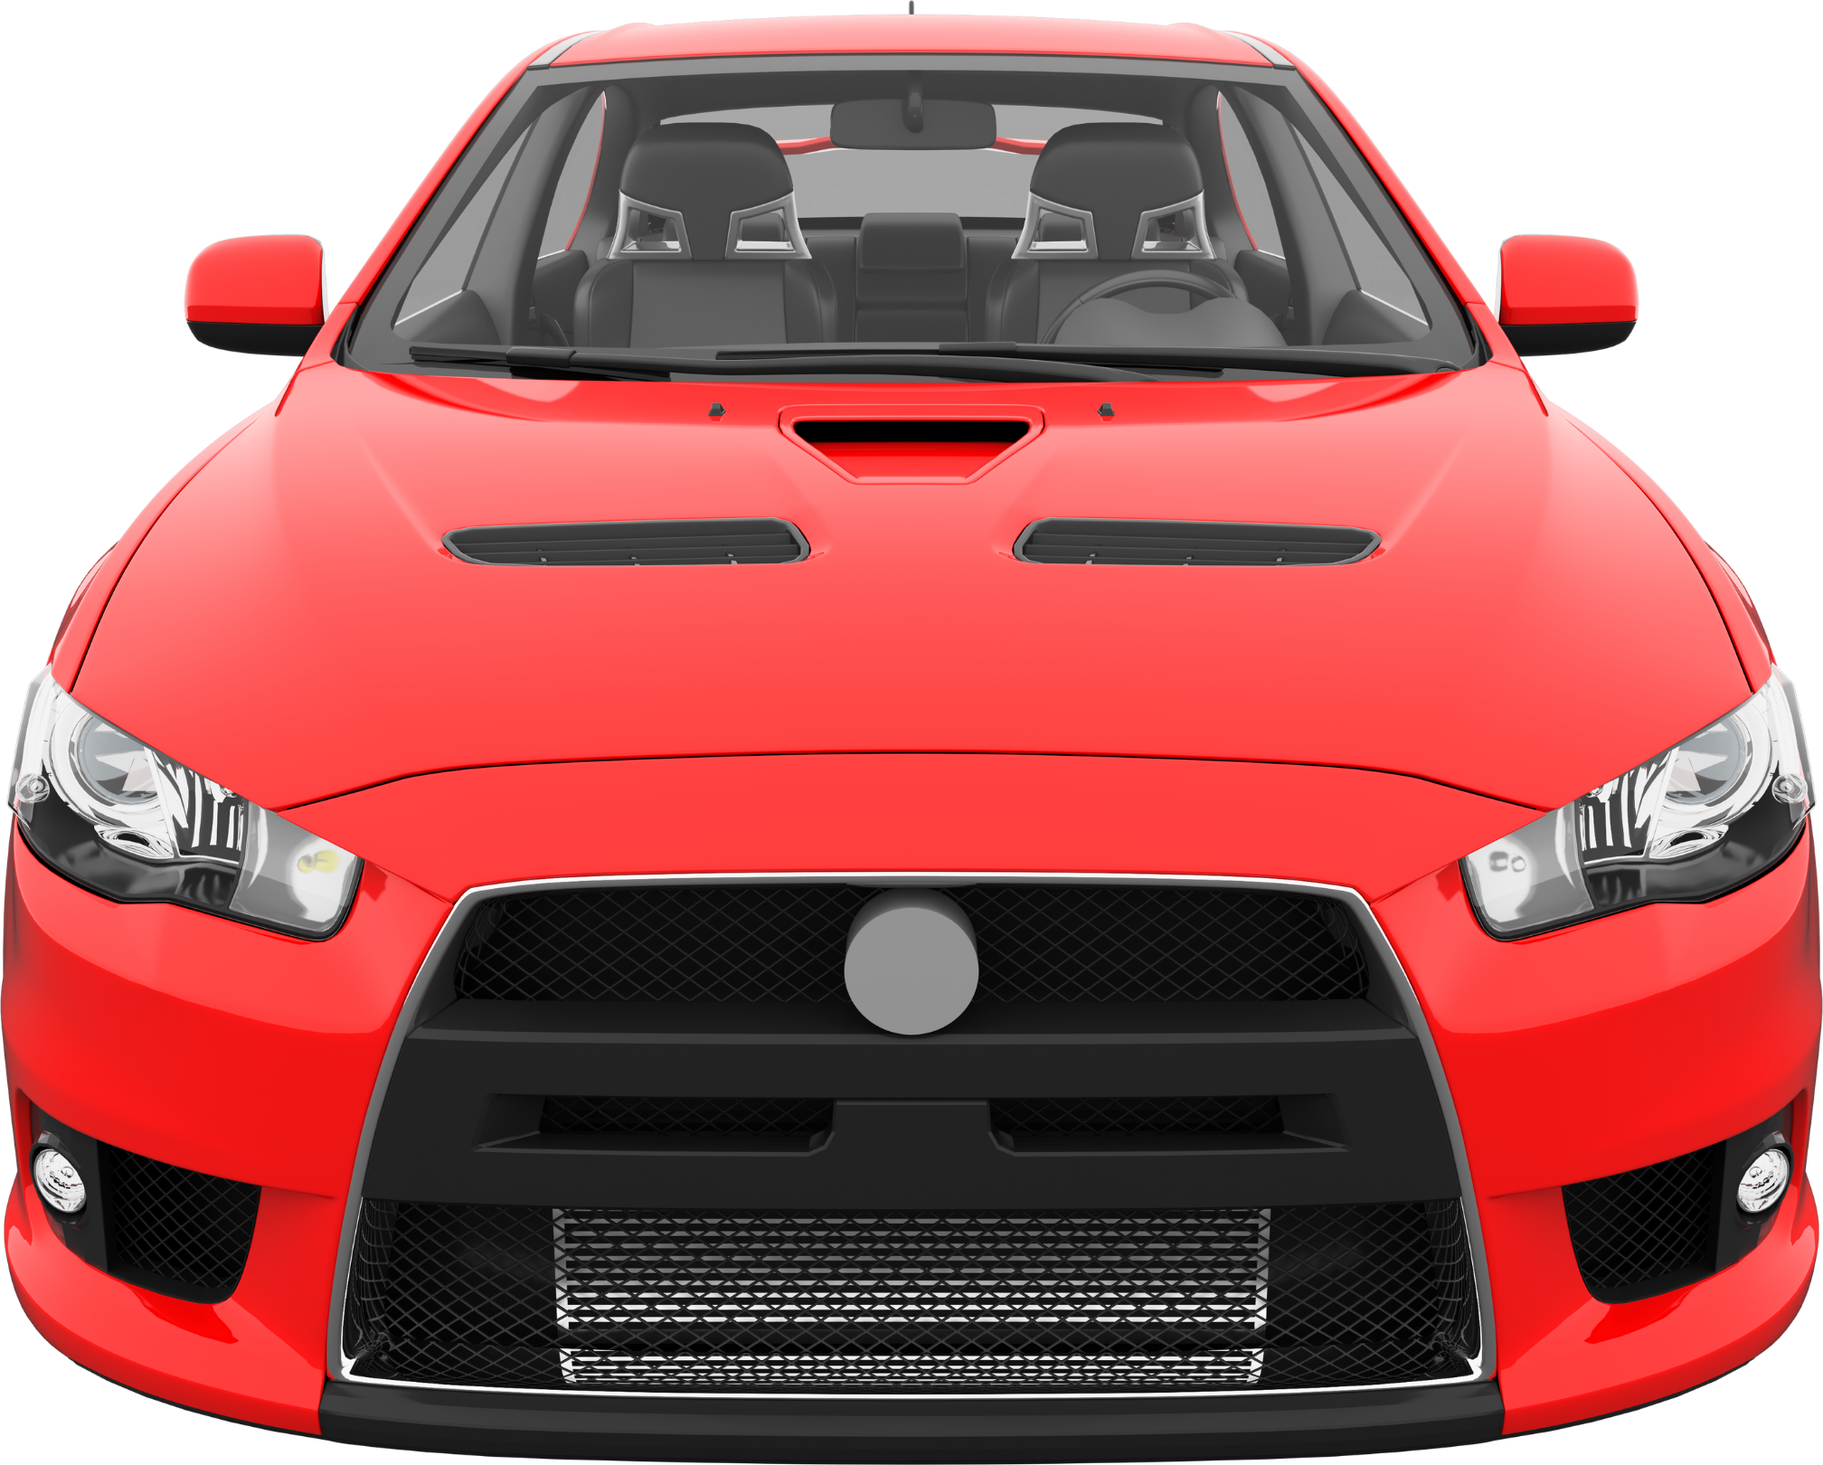
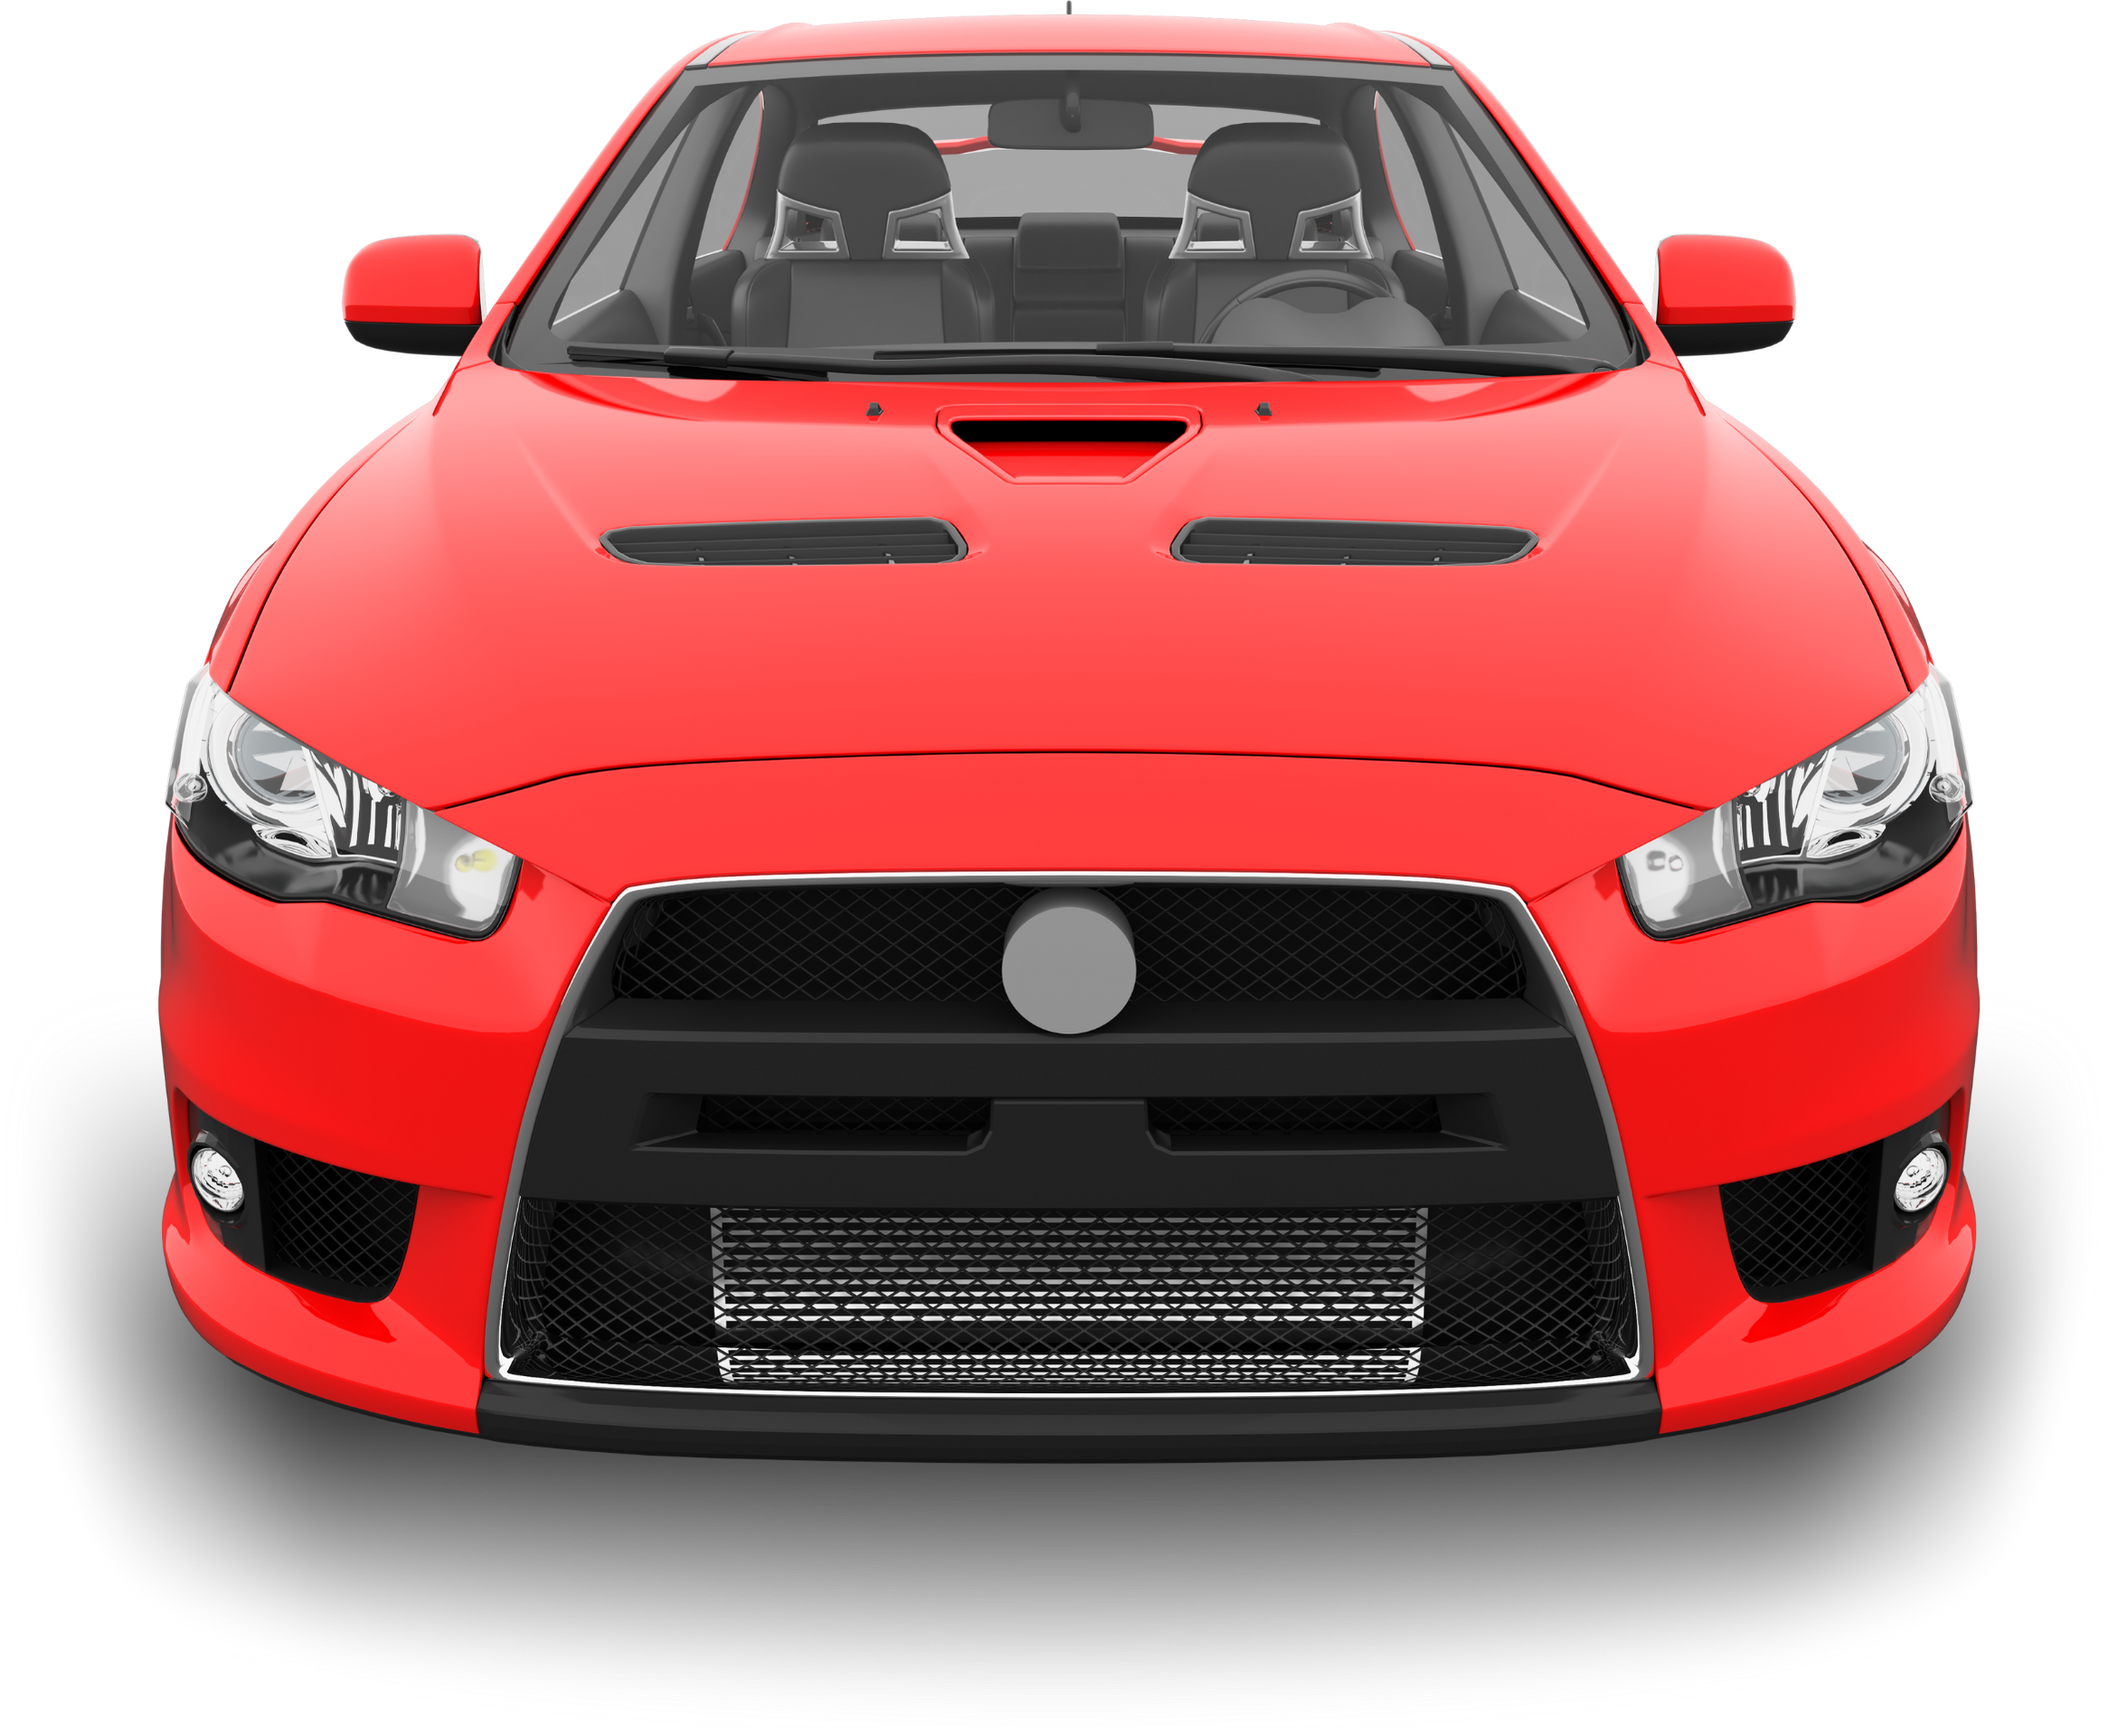
updated

diff --git a/frontend/src/stylesheets/style.css b/frontend/src/stylesheets/style.css
@@ -717,7 +717,8 @@ nav.fill ul li a:after {
 }
 
 .our-services-section .our-services-outer .our-services-car-img img{
-  width: 450px;
+  margin-left: 8%; 
+  width: 550px;
 }
 
 .our-services-section .our-services-left-img{
